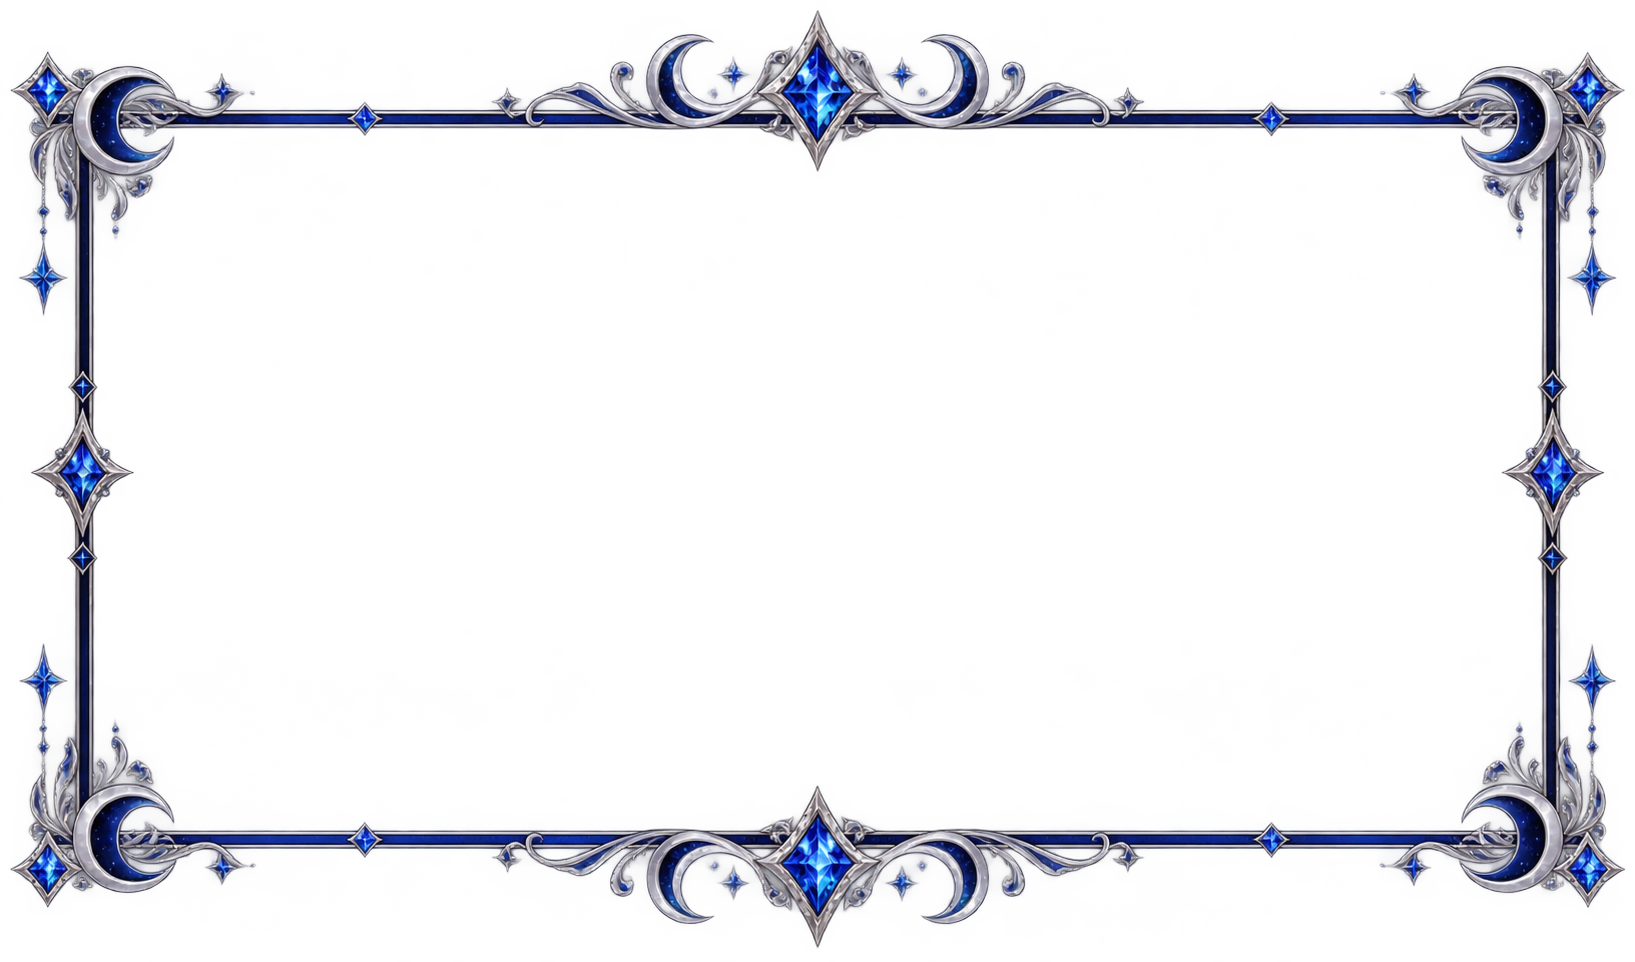
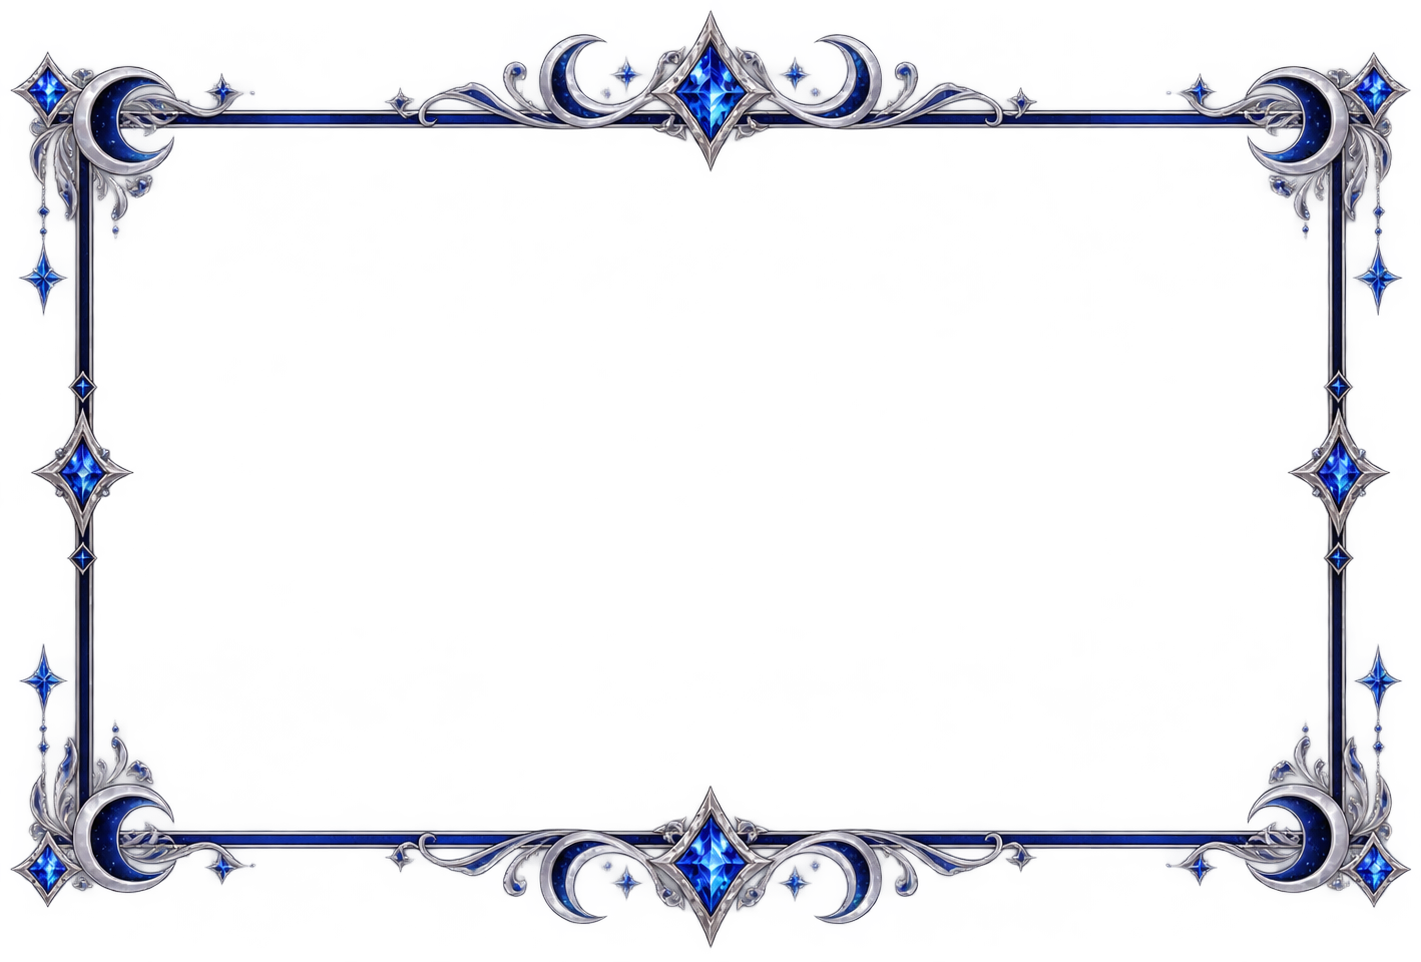
Refit Ocean and Celestial profile frames

diff --git a/test_bot.py b/test_bot.py
@@ -4665,85 +4665,104 @@ class ProfileTests(unittest.IsolatedAsyncioTestCase):
             )
             self.assertEqual(actual.tobytes(), expected.tobytes())
 
-    def test_profile_card_renders_celestial_like_approved_preview(self) -> None:
-        settings = {**self.bot.profile_settings_for_user(123), "frame": "celestial"}
+    def test_shop_frames_fit_native_profile_without_warping(self) -> None:
         stats = self.bot.profile_stats_for_user(SERVER_ID, 123)
-        with Image.open(
-            render_profile_image({**settings, "frame": "none"}, stats)
-        ) as unframed:
-            base = unframed.convert("RGBA")
-        with Image.open(
-            Path(__file__).with_name("Frames") / "celestial.png"
-        ) as source:
-            frame = source.convert("RGBA")
-        self.assertEqual(frame.size, (1635, 962))
-        left, top, right, bottom = PROFILE_FRAME_OPENINGS["celestial"]
-        card_height = bottom - top
-        card_width = round(base.width * card_height / base.height)
-        card = base.resize((card_width, card_height), Image.Resampling.LANCZOS)
-        card_x = left + (right - left - card_width) // 2
-        expected = Image.new("RGBA", frame.size, (0, 0, 0, 0))
-        expected.alpha_composite(
-            card.crop((0, 0, 1, card_height)).resize((card_x - left, card_height)),
-            (left, top),
-        )
-        expected.alpha_composite(card, (card_x, top))
-        expected.alpha_composite(
-            card.crop((card_width - 1, 0, card_width, card_height)).resize(
-                (right - card_x - card_width, card_height)
-            ),
-            (card_x + card_width, top),
-        )
-        expected.alpha_composite(frame)
+        for frame_key in ("celestial", "ocean"):
+            for backgrounds in (
+                {},
+                {"background": "cosmog", "middle_background": "cosmog"},
+            ):
+                with self.subTest(frame=frame_key, backgrounds=backgrounds):
+                    settings = {
+                        **self.bot.profile_settings_for_user(123),
+                        **backgrounds,
+                        "frame": frame_key,
+                    }
+                    with Image.open(
+                        render_profile_image(
+                            {**settings, "frame": "none"}, stats, username="Jade"
+                        )
+                    ) as unframed:
+                        card = unframed.convert("RGBA")
+                    self.assertEqual(card.size, (1400, 825))
+                    with Image.open(
+                        Path(__file__).with_name("Frames") / f"{frame_key}.png"
+                    ) as source:
+                        left, top, right, bottom = PROFILE_FRAME_OPENINGS[frame_key]
+                        scale = card.width / (right - left)
+                        self.assertLessEqual(
+                            abs((bottom - top) * scale - card.height), 1
+                        )
+                        frame = source.convert("RGBA").resize(
+                            (round(source.width * scale), round(source.height * scale)),
+                            Image.Resampling.LANCZOS,
+                        )
+                        self.assertAlmostEqual(
+                            frame.width / source.width,
+                            frame.height / source.height,
+                            delta=0.001,
+                        )
+                    x, y = round(left * scale), round(top * scale)
+                    expected = Image.new("RGBA", frame.size, (0, 0, 0, 0))
+                    expected.alpha_composite(card, (x, y))
+                    expected.alpha_composite(frame)
+                    with Image.open(
+                        render_profile_image(settings, stats, username="Jade")
+                    ) as actual:
+                        self.assertEqual(actual.size, frame.size)
+                        self.assertEqual(actual.tobytes(), expected.tobytes())
+                        self.assertEqual(
+                            actual.getchannel("A").crop(
+                                (x, y, x + card.width, y + card.height)
+                            ).getextrema(),
+                            (255, 255),
+                        )
+                        for bounds in (
+                            (64, 245, 425, 610),
+                            (980, 245, 1290, 745),
+                            (980, 760, 1260, 790),
+                        ):
+                            a, b, c, d = bounds
+                            self.assertLessEqual(
+                                frame.getchannel("A").crop(
+                                    (x + a, y + b, x + c, y + d)
+                                ).getextrema()[1],
+                                2,
+                            )
 
-        with Image.open(render_profile_image(settings, stats)) as actual:
-            self.assertEqual(actual.tobytes(), expected.tobytes())
-            self.assertEqual(actual.getchannel("A").crop((left, top, right, bottom)).getextrema(), (255, 255))
-
-    def test_ocean_frame_fills_opening_and_anchors_profile_content(self) -> None:
-        settings = {**self.bot.profile_settings_for_user(123), "frame": "ocean"}
-        stats = self.bot.profile_stats_for_user(SERVER_ID, 123)
-        with Image.open(
-            render_profile_image({**settings, "frame": "none"}, stats, username="Jade")
-        ) as unframed:
-            card = unframed.convert("RGBA").resize((1081, 637), Image.Resampling.LANCZOS)
-        with Image.open(Path(__file__).with_name("Frames") / "ocean.png") as source:
-            frame = source.convert("RGBA")
-        expected_content = card.crop((40, 135, 200, 385))
-        expected_content.alpha_composite(frame.crop((165, 300, 325, 550)))
-        with Image.open(
-            render_profile_image(settings, stats, username="Jade")
-        ) as actual:
-            self.assertEqual(actual.size, (1619, 971))
-            self.assertEqual(actual.getchannel("A").crop((125, 165, 1496, 802)).getextrema(), (255, 255))
-            self.assertEqual(
-                actual.crop((165, 300, 325, 550)).tobytes(),
-                expected_content.tobytes(),
-            )
-            self.assertEqual(rgba_pixel(actual, (550, 400)), (41, 42, 47, 255))
-            self.assertEqual(rgba_pixel(actual, (1100, 400)), (41, 42, 47, 255))
-
-    def test_ocean_frame_uses_selected_background_and_dyes(self) -> None:
-        settings = {
-            **self.bot.profile_settings_for_user(123),
-            "background": "cosmog",
-            "frame": "ocean",
-        }
+    def test_shop_frames_use_selected_background_and_dyes(self) -> None:
         stats = self.bot.profile_stats_for_user(SERVER_ID, 123)
         dyes = {
             "background": {"color": "#FF00FF", "rarity": "normal"},
             "frame": {"color": "#FF88CC", "rarity": "normal"},
         }
-        with Image.open(render_profile_image(settings, stats)) as original:
-            normal = original.convert("RGBA")
-        with Image.open(render_profile_image(settings, stats, dyes=dyes)) as dyed:
-            self.assertEqual(dyed.size, normal.size)
-            self.assertEqual(
-                dyed.getchannel("A").crop((125, 165, 1496, 802)).getextrema(),
-                (255, 255),
-            )
-            self.assertNotEqual(dyed.getpixel((550, 400)), normal.getpixel((550, 400)))
-            self.assertNotEqual(dyed.getpixel((113, 400)), normal.getpixel((113, 400)))
+        for frame_key in ("celestial", "ocean"):
+            with self.subTest(frame=frame_key):
+                settings = {
+                    **self.bot.profile_settings_for_user(123),
+                    "background": "cosmog",
+                    "middle_background": "cosmog",
+                    "frame": frame_key,
+                }
+                left, top, right, _ = PROFILE_FRAME_OPENINGS[frame_key]
+                scale = 1400 / (right - left)
+                x, y = round(left * scale), round(top * scale)
+                with Image.open(render_profile_image(settings, stats)) as original:
+                    normal = original.convert("RGBA")
+                with Image.open(render_profile_image(settings, stats, dyes=dyes)) as dyed:
+                    self.assertEqual(dyed.size, normal.size)
+                    self.assertEqual(
+                        dyed.getchannel("A").crop((x, y, x + 1400, y + 825)).getextrema(),
+                        (255, 255),
+                    )
+                    self.assertNotEqual(
+                        dyed.getpixel((x + 220, y + 300)),
+                        normal.getpixel((x + 220, y + 300)),
+                    )
+                    self.assertNotEqual(
+                        dyed.getpixel((round(left * scale) - 5, y + 300)),
+                        normal.getpixel((round(left * scale) - 5, y + 300)),
+                    )
 
     def test_profile_card_renders_selected_moonlit_frame_at_reference_size(self) -> None:
         self.bot.set_profile_setting(PROFILE_MOONLIT_USER_ID, "frame", "moonlit")

diff --git a/bot.py b/bot.py
@@ -311,8 +311,8 @@ PROFILE_FRAME_OPENINGS: Final[dict[str, tuple[int, int, int, int]]] = {
     "jirachi": (65, 64, 1086, 699),
     "magic": (50, 71, 1416, 866),
     "amethyst": (20, 45, 1095, 723),
-    "celestial": (82, 110, 1553, 851),
-    "ocean": (125, 165, 1496, 802),
+    "celestial": (82, 110, 1339, 851),
+    "ocean": (125, 165, 1206, 802),
 }
 PROFILE_FRAME_SCALES: Final[dict[str, float]] = {
     "mystic": 1.0,
@@ -6366,7 +6366,6 @@ def render_profile_image(
     background_dye = (dyes or {}).get("background")
     if background_dye is not None:
         image = apply_background_dye(image, background_dye)
-    ocean_background = image.copy() if settings["frame"] == "ocean" else None
     draw = ImageDraw.Draw(image)
     middle_background_image_path = PROFILE_MIDDLE_BACKGROUND_IMAGES.get(
         middle_key
@@ -6517,9 +6516,18 @@ def render_profile_image(
                 )
             elif frame_key in {"celestial", "ocean"}:
                 left, top, right, bottom = opening
-                frame = frame_image.convert("RGBA")
-                profile_position = (left, top)
-                profile_opening_size = (right - left, bottom - top)
+                frame_scale = width / (right - left)
+                frame = frame_image.convert("RGBA").resize(
+                    (
+                        round(frame_image.width * frame_scale),
+                        round(frame_image.height * frame_scale),
+                    ),
+                    Image.Resampling.LANCZOS,
+                )
+                profile_position = (
+                    round(left * frame_scale),
+                    round(top * frame_scale),
+                )
             elif frame_key == "amethyst":
                 left, top, right, bottom = opening
                 frame_scale = min(
@@ -6578,75 +6586,9 @@ def render_profile_image(
                 glow.alpha_composite(frame)
                 frame = glow
         framed_image = Image.new("RGBA", frame.size, (0, 0, 0, 0))
-        if frame_key == "ocean" and profile_opening_size is not None:
-            opening_width, opening_height = profile_opening_size
-            card_width = round(width * opening_height / height)
-            profile_card = image.convert("RGBA").resize(
-                (card_width, opening_height),
-                Image.Resampling.LANCZOS,
-            )
-            extra_width = opening_width - card_width
-            left_extra = extra_width // 2
-            right_extra = extra_width - left_extra
-            left_split = round(430 * opening_height / height)
-            right_split = round(950 * opening_height / height)
-            assert ocean_background is not None
-            backdrop = ocean_background.convert("RGBA").resize(
-                (card_width, opening_height),
-                Image.Resampling.LANCZOS,
-            )
-            x, y = profile_position
-            framed_image.alpha_composite(
-                profile_card.crop((0, 0, left_split, opening_height)), (x, y)
-            )
-            framed_image.alpha_composite(
-                backdrop.crop((left_split - 1, 0, left_split, opening_height)).resize(
-                    (left_extra, opening_height)
-                ),
-                (x + left_split, y),
-            )
-            framed_image.alpha_composite(
-                profile_card.crop((left_split, 0, right_split, opening_height)),
-                (x + left_split + left_extra, y),
-            )
-            framed_image.alpha_composite(
-                backdrop.crop((right_split, 0, right_split + 1, opening_height)).resize(
-                    (right_extra, opening_height)
-                ),
-                (x + right_split + left_extra, y),
-            )
-            framed_image.alpha_composite(
-                profile_card.crop((right_split, 0, card_width, opening_height)),
-                (x + right_split + extra_width, y),
-            )
-            profile_card = None
-        elif frame_key == "celestial" and profile_opening_size is not None:
-            opening_width, opening_height = profile_opening_size
-            card_width = round(width * opening_height / height)
-            profile_card = image.convert("RGBA").resize(
-                (card_width, opening_height),
-                Image.Resampling.LANCZOS,
-            )
-            left_margin = (opening_width - card_width) // 2
-            right_margin = opening_width - card_width - left_margin
-            if left_margin > 0:
-                framed_image.alpha_composite(
-                    profile_card.crop((0, 0, 1, opening_height)).resize(
-                        (left_margin, opening_height)
-                    ),
-                    dest=profile_position,
-                )
-            if right_margin > 0:
-                framed_image.alpha_composite(
-                    profile_card.crop(
-                        (card_width - 1, 0, card_width, opening_height)
-                    ).resize((right_margin, opening_height)),
-                    dest=(
-                        profile_position[0] + left_margin + card_width,
-                        profile_position[1],
-                    ),
-                )
-            card_position = (profile_position[0] + left_margin, profile_position[1])
+        if frame_key in {"celestial", "ocean"}:
+            profile_card = image.convert("RGBA")
+            card_position = profile_position
         elif profile_opening_size is not None:
             profile_card = image.convert("RGBA").resize(
                 profile_opening_size,
@@ -6670,8 +6612,7 @@ def render_profile_image(
                 profile_position[0] - (profile_card.width - width) // 2,
                 profile_position[1] - (profile_card.height - height) // 2,
             )
-        if profile_card is not None:
-            framed_image.alpha_composite(profile_card, dest=card_position)
+        framed_image.alpha_composite(profile_card, dest=card_position)
         framed_image.alpha_composite(frame)
         image = framed_image
 
